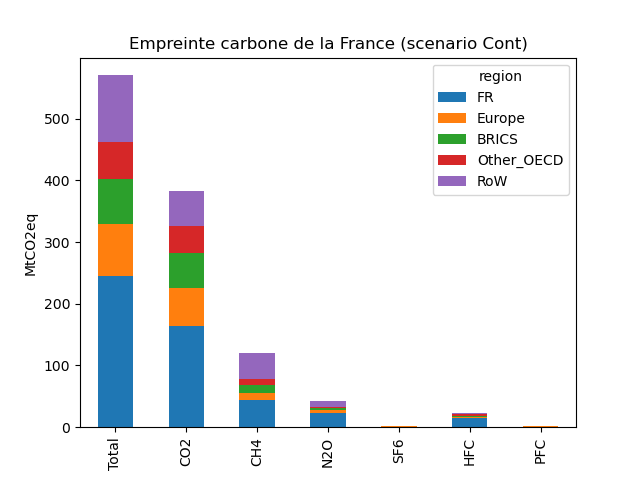
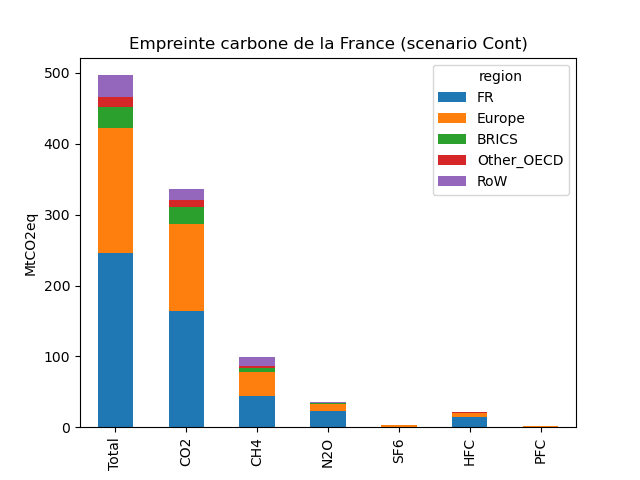
test

diff --git a/main.py b/main.py
@@ -11,6 +11,9 @@ import sys
 import os
 import copy
 
+import warnings
+warnings.simplefilter(action='ignore', category=FutureWarning)
+
 # scientific
 import numpy as np
 import pandas as pd
@@ -135,25 +138,37 @@ counterfactual = reference.copy()
 counterfactual.remove_extension('ghg_emissions_desag')
 # read param sets to shock reference system
 ## ToDo
-quantity = 0.8
-sector = 'Clothing'
-move_out = 'BRICS'
-move_in = 'Europe'
+
+nbsect = len(list(reference.get_sectors()))
+sectors = list(reference.get_sectors())+list(reference.get_sectors())+list(reference.get_sectors())
+quantities = [1 for i in range(len(sectors)) ]
+moves =[]
+for i in range(len(quantities)):
+	if i<nbsect:
+		moves.append(['BRICS','Europe'])
+	if i>= nbsect and i<2*nbsect:
+		moves.append(['RoW','Europe'])
+	if i>= 2*nbsect:
+		moves.append(['Other_OECD','Europe'])
 # build conterfactual(s) using param sets
 ## ToDo
-counterfactual.Z = Tools.shock(list(reference.get_sectors()),reference.Z,move_out,move_in,sector,quantity)
+for i in range(len(quantities)):
+	counterfactual.Z,counterfactual.Y = Tools.shock(list(reference.get_sectors()),counterfactual.Z,counterfactual.Y,moves[i][0],
+	moves[i][1],sectors[i],quantities[i])
 counterfactual.A = None
 counterfactual.x = None
 counterfactual.L = None
 
 # calculate counterfactual(s) system
 counterfactual.calc_all()
-
+#print(counterfactual.Z)
 counterfactual.ghg_emissions_desag = Tools.recal_extensions_per_region(
 	counterfactual,
 	'ghg_emissions'
 )
 
+#print(counterfactual.x)
+#print(reference.x)
 ###########################
 # FORMAT RESULTS
 ###########################
@@ -176,41 +191,65 @@ counterfactual.save_all(
 ghg_list = ['CO2', 'CH4', 'N2O', 'SF6', 'HFC', 'PFC']
 sectors_list=list(reference.get_sectors())
 reg_list = list(reference.get_regions())
-
-def visualisation(scenario,scenario_name):
-	ghg_list = ['CO2', 'CH4', 'N2O', 'SF6', 'HFC', 'PFC']
+def visualisation(scenario,scenario_name,save=True,saveghg=True):
 	dcba = pd.DataFrame(scenario.ghg_emissions_desag.D_cba)
-	empreinte_df = dcba['FR']
-	sumonsectors = empreinte_df.sum(axis=1)
-	total_ges_by_origin = sumonsectors.sum(level=0)
 	liste_agg_ghg=[]
 	for ghg in ghg_list:
-		liste_agg_ghg.append(sumonsectors.iloc[sumonsectors.index.get_level_values(1)==ghg].sum(level=0))
-	xs = ['total']+ghg_list
-	dict_pour_plot = {'Total':total_ges_by_origin,'CO2':liste_agg_ghg[0],
+		liste_agg_ghg.append(dcba['FR'].sum(axis=1).iloc[dcba['FR'].sum(axis=1).index.get_level_values(1)==ghg].sum(level=0))
+	dict_pour_plot = {'Total':dcba['FR'].sum(axis=1).sum(level=0),'CO2':liste_agg_ghg[0],
 	'CH4':liste_agg_ghg[1],'N2O':liste_agg_ghg[2],'SF6':liste_agg_ghg[3],
 	'HFC':liste_agg_ghg[4],'PFC':liste_agg_ghg[5]}
 	pour_plot=pd.DataFrame(data=dict_pour_plot,index=scenario.get_regions())
 	pour_plot.transpose().plot.bar(stacked=True)
 	plt.title("Empreinte carbone de la France (scenario "+scenario_name+")")
 	plt.ylabel("MtCO2eq")
-	plt.savefig("figures/"+scenario_name+"_empreinte_carbone_fr_importation.png")
+	if save:
+		plt.savefig("figures/"+scenario_name+"_empreinte_carbone_fr_importation.png")
+
 	for ghg in ghg_list:
 		df = pd.DataFrame(None, index = scenario.get_sectors(), columns = scenario.get_regions())
 		for reg in scenario.get_regions():
-			df.loc[:,reg]=empreinte_df.loc[(reg,ghg)]
+			df.loc[:,reg]=dcba['FR'].loc[(reg,ghg)]
 		ax=df.plot.barh(stacked=True, figsize=(18,12))
 		plt.grid()
 		plt.xlabel("MtCO2eq")
 		plt.title("Provenance des émissions de "+ghg+" françaises par secteurs (scenario "+scenario_name+")")
-		plt.savefig('figures/'+scenario_name+'_french_'+ghg+'emissions_provenance_sectors')
-	
-		ax=empreinte_df.sum(level=0).T.plot.barh(stacked=True, figsize=(18,12))
-		plt.grid()
-		plt.xlabel("MtCO2eq")
-		plt.title("Provenance des émissions totales françaises par secteurs (scenario "+scenario_name+")")
-		plt.savefig('figures/'+scenario_name+'french_total_emissions_provenance_sectors')
-		#plt.show()
+		if saveghg:
+			plt.savefig('figures/'+scenario_name+'_french_'+ghg+'emissions_provenance_sectors')
+		plt.close('all')
+	ax=dcba['FR'].sum(level=0).T.plot.barh(stacked=True, figsize=(18,12))
+	plt.grid()
+	plt.xlabel("MtCO2eq")
+	plt.title("Provenance des émissions totales françaises par secteurs (scenario "+scenario_name+")")
+	if save:
+		plt.savefig('figures/'+scenario_name+'_french_total_emissions_provenance_sectors')
+	#plt.show()
+
+	ax=scenario.ghg_emissions_desag.D_pba['FR'].sum(level=0).T.plot.barh(stacked=True, figsize=(18,12))
+	plt.grid()
+	plt.xlabel("MtCO2eq")
+	plt.title("Emissions nationales et lieu de 1er export (scenario "+scenario_name+")")
+	if save:
+	    plt.savefig('figures/'+scenario_name+'_emissions_nationales_destination_pays_produit')
+	#plt.show()
+	ax=scenario.ghg_emissions_desag.D_exp['FR'].sum(level=0).T.plot.barh(stacked=True, figsize=(18,12))
+	plt.grid()
+	plt.xlabel("MtCO2eq")
+	plt.title("Exportations de ghg par la France (scenario "+scenario_name+")")
+	if save:
+		plt.savefig('figures/'+scenario_name+'_exportation_FR_destination_produit')
+	#plt.show()
+	ax=scenario.ghg_emissions_desag.D_imp['FR'].sum(level=0).T.plot.barh(stacked=True, figsize=(18,12))
+	plt.grid()
+	plt.xlabel("MtCO2eq")
+	plt.title("Importations de ghg par la France (scenario "+scenario_name+")")
+	if save:
+		plt.savefig('figures/'+scenario_name+'_importations_ghg_pays_produit')
+	#plt.show()
+	empr=dcba['FR'].sum(axis=1).sum(level=0).sum()
+	em=scenario.ghg_emissions_desag.D_pba['FR'].sum(axis=1).sum(level=0).sum()
+	print("\n Empreinte carbone de la consommation française (MtCO2eq) - Scénario "+scenario_name+" :%s \n"%empr)
+	print("Emissions de la production française (MtCO2eq) - Scénario "+scenario_name+" : %s \n"%em)
 
 ###########################
 # VISUALIZE
@@ -218,20 +257,26 @@ def visualisation(scenario,scenario_name):
 
 # reference analysis
 ## ToDo
-#visualisation(reference,"Ref")
-#visualisation(counterfactual,"Cont")
+#visualisation(reference,"Ref",saveghg=False)
+visualisation(counterfactual,"Cont",saveghg=False)
 # whole static comparative analysis
 ## ToDo
 
 def delta_CF(ref,contr):
 	""" Compare les EC des deux scenarios, éventuellement par secteur
 	"""
-	ghg_list = ['CO2', 'CH4', 'N2O', 'SF6', 'HFC', 'PFC']
 	ref_dcba = pd.DataFrame(ref.ghg_emissions_desag.D_cba)
 	con_dcba = pd.DataFrame(contr.ghg_emissions_desag.D_cba)
 	cf_ref = ref_dcba['FR'].sum(axis=1).sum(level=0)
 	cf_con = con_dcba['FR'].sum(axis=1).sum(level=0)
 	return 100*(cf_con/cf_ref - 1), 100*(cf_con.sum()/cf_ref.sum() -1)
 res = delta_CF(reference,counterfactual)
-print(delta_CF(reference,counterfactual)[0])
-print(delta_CF(reference,counterfactual)[1])
+print("Variation EC française par provenance")
+print(res[0])
+print(res[1])
+
+def compa_monetaire(ref,contr):
+	#unité = M€
+	return counterfactual.x - reference.x
+print("Variation de richesse de la transformation")
+print(compa_monetaire(reference,counterfactual).sum(level=0).sum())

diff --git a/utils.py b/utils.py
@@ -155,15 +155,17 @@ class Tools:
         return extension
 
 
-    def shock(sector_list,Z,region1,region2,sector,quantity):
+    def shock(sector_list,Z,Y,region1,region2,sector,quantity):
         #sector : secteur concerné par la politique de baisse d'émissions importées
         #region1 : region dont on veut diminuer les émissions importées en France
         #region2 : region de report pour alimenter la demande
         #quantity : proportion dont on veut faire baisser les émissions importées pour le secteur de la région concernée.
         Z_modif=Z.copy()
-        variation_table=pd.DataFrame(None,index=sector_list,columns=['FR'])
+        Y_modif = Y.copy()
         for sec in sector_list:
-            variation_table.loc[sec]=quantity*Z_modif.loc[(region1,sector),('FR',sec)]
-            Z_modif.loc[(region1,sector),('FR',sec)]*=(1-quantity)
-            Z_modif.loc[(region2,sector),('FR',sec)]+=np.array(variation_table.loc[sec])
-        return(Z_modif)
+            Z_modif.loc[(region1,sector),('FR',sec)]=(1-quantity)*Z.loc[(region1,sector),('FR',sec)]
+            Z_modif.loc[(region2,sector),('FR',sec)]+=quantity*Z.loc[(region1,sector),('FR',sec)]
+        for demcat in list(Y.columns.get_level_values(1).unique()):
+            Y_modif.loc[(region1,sector),('FR',demcat)]=(1-quantity)*Y.loc[(region1,sector),('FR',demcat)]
+            Y_modif.loc[(region2,sector),('FR',demcat)]+= quantity*Y.loc[(region1,sector),('FR',demcat)]
+        return Z_modif,Y_modif
